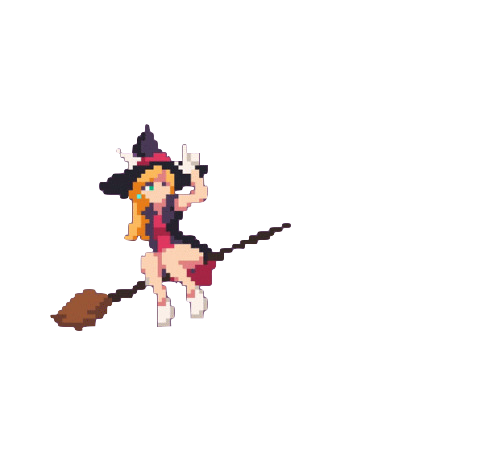
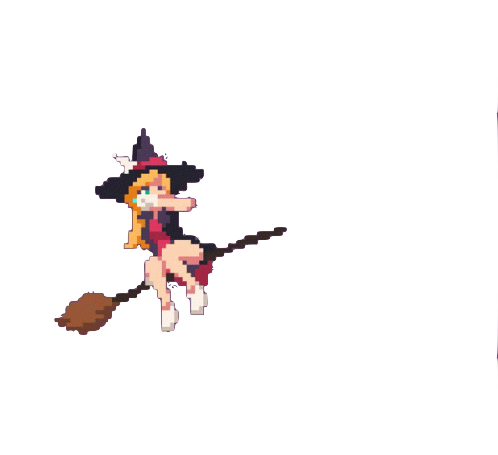
Update Witch Animation

diff --git a/Witch.java b/Witch.java
@@ -10,7 +10,7 @@ public class Witch extends Actor
 {
     // Image idles of witch
     GreenfootImage[] defaultIdle = new GreenfootImage[37];
-    GreenfootImage[] attack1 = new GreenfootImage[14];
+    GreenfootImage[] attack1 = new GreenfootImage[13];
     
     boolean isAttacking = false;
     
@@ -63,7 +63,7 @@ public class Witch extends Actor
     int attackIndex1 = 0;
     public void animateAttackOne()
     {
-        if(attackTimer1.millisElapsed() < 65)
+        if(attackTimer1.millisElapsed() < 75)
         {
             return;
         }
